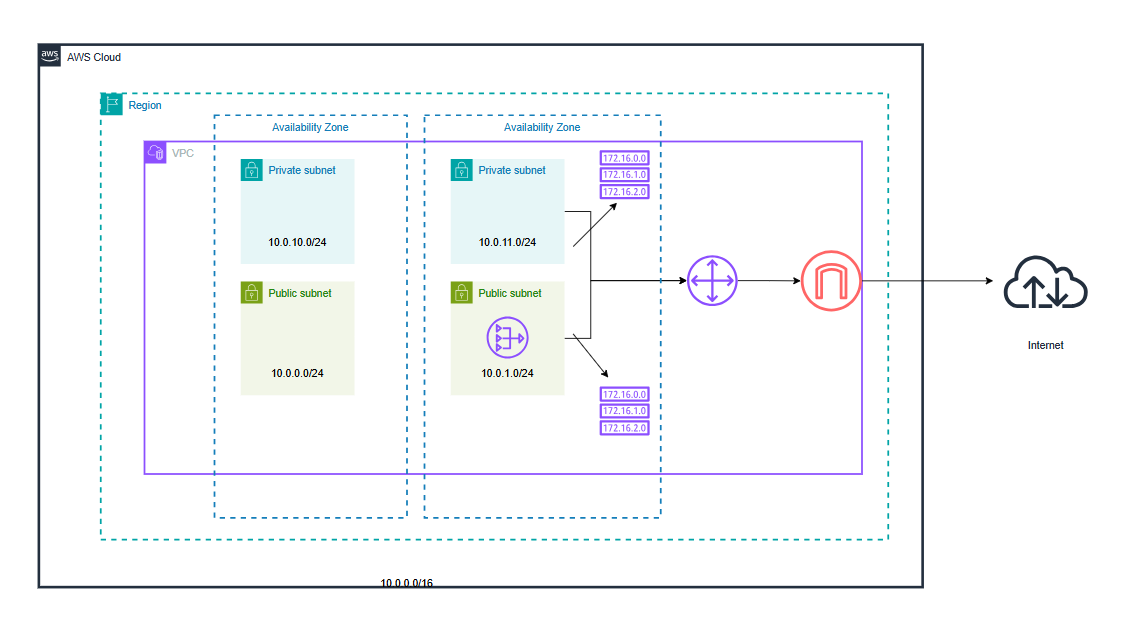
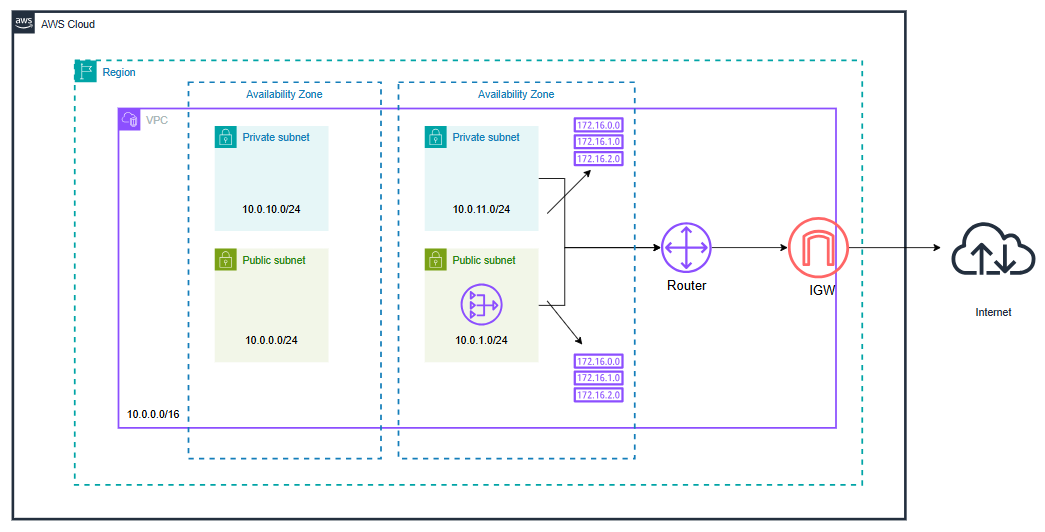
(fix):vpc

diff --git a/README.md b/README.md
@@ -19,7 +19,7 @@ The application is deployed to AWS EKS using Helm charts.
 
 Prometheus and Grafana are used for monitoring application and cluster metrics.2
 
-# VPC
+### VPC
 
 ![Architecture Diagram](docs/architecture.png)
 
